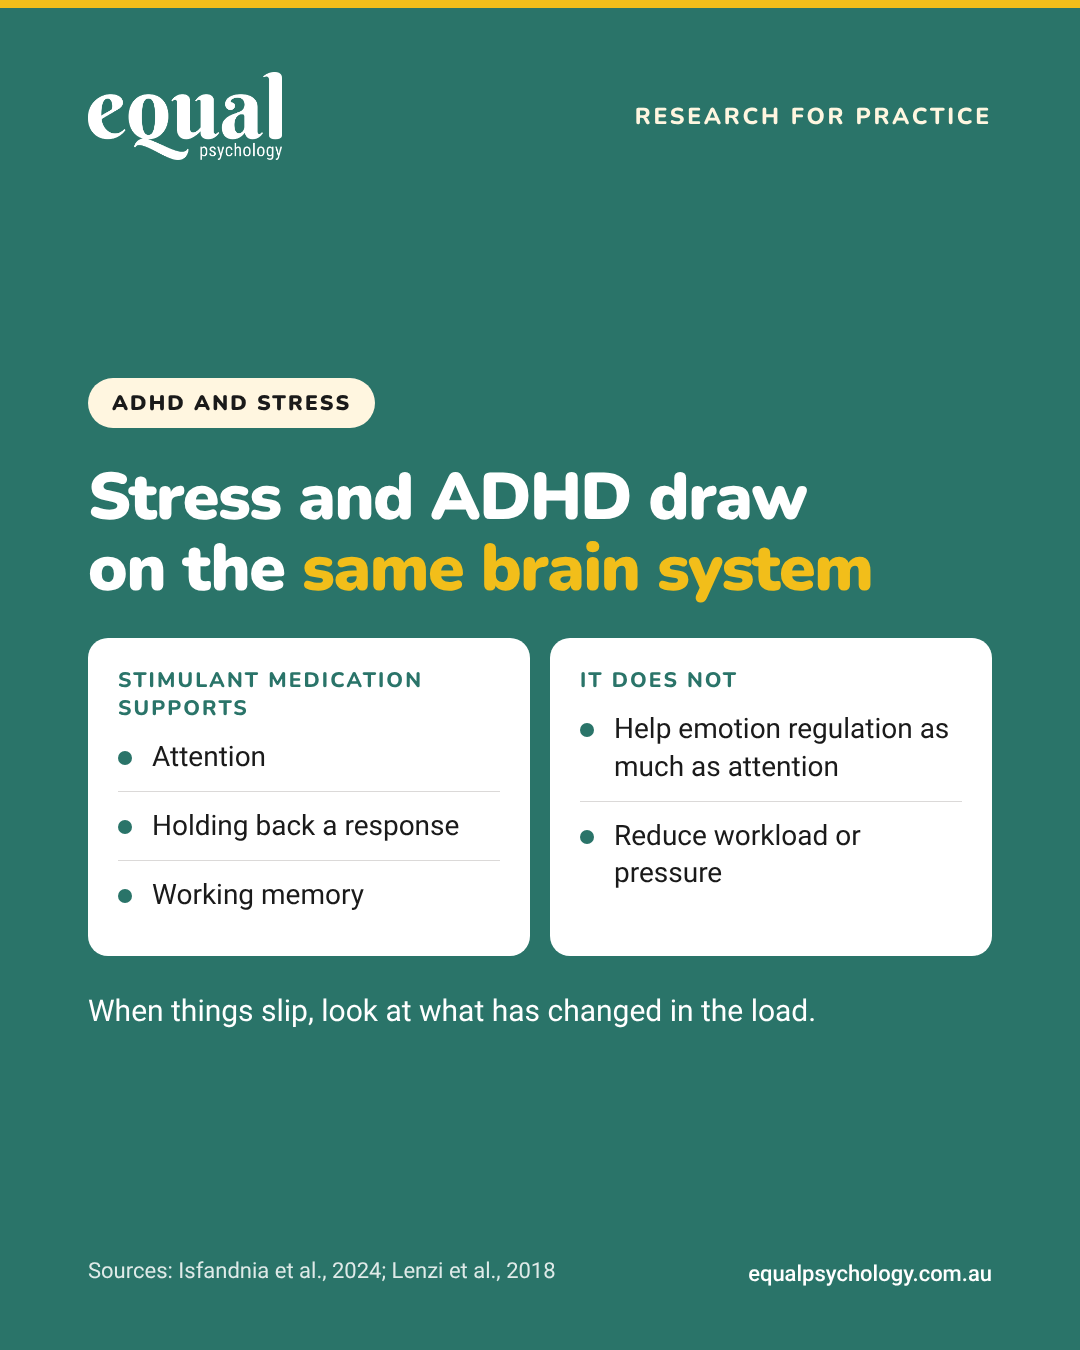
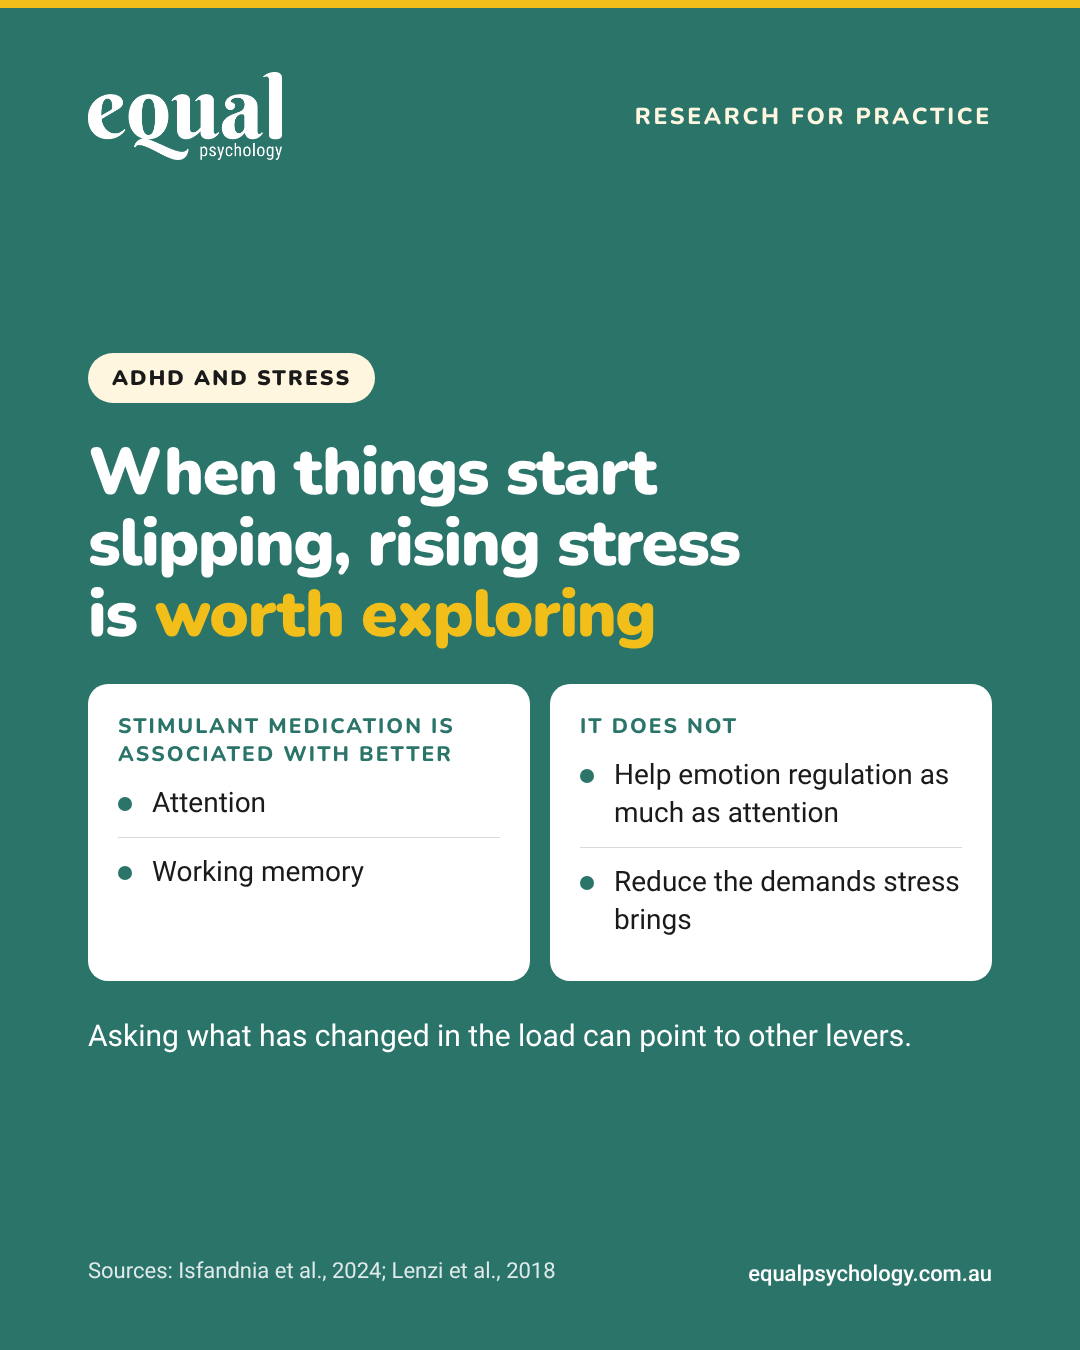
WIP: 2 Nov and 24 Nov LinkedIn graphics match corrected post text (not yet reviewed)
Claude-Session: https://claude.ai/code/session_01PZVGLP5J3BHdSUAGKuZxXq

Changed region(s): [[0.0611, 0.2489, 0.9167, 0.7778]]

diff --git a/tools/linkedin/build.py b/tools/linkedin/build.py
@@ -140,7 +140,7 @@ page('2026-11-02-in-practice-10', 'butter', [
      '<b>Self-criticism is changeable</b>',
      '<b>Three consult questions</b> and when to consider a referral'], 'num'),
   ('line', 'Free issue and patient handout on our referrers page.'),
-], 'Sources: Buric et al., 2026; Löw et al., 2020; Wakelin et al., 2022; Millard et al., 2023')
+], 'Sources: Löw et al., 2020; Millard et al., 2023; Wakelin et al., 2022')
 
 page('2026-11-05-safety-behaviours', 'cream', [
   ('pill', 'Anxiety'),
@@ -222,11 +222,11 @@ page('2026-11-03-demoralization', 'teal', [
 
 page('2026-11-24-adhd-medication-stress', 'teal', [
   ('pill', 'ADHD and stress'),
-  ('h1', 'Stress and ADHD draw on the *same brain system*'),
+  ('h1', 'When things start slipping, rising stress is *worth exploring*'),
   ('cols', [
-     ('Stimulant medication supports', ['Attention', 'Holding back a response', 'Working memory']),
-     ('It does not', ['Help emotion regulation as much as attention', 'Reduce workload or pressure'])]),
-  ('line', 'When things slip, look at what has changed in the load.'),
+     ('Stimulant medication is associated with better', ['Attention', 'Working memory']),
+     ('It does not', ['Help emotion regulation as much as attention', 'Reduce the demands stress brings'])]),
+  ('line', 'Asking what has changed in the load can point to other levers.'),
 ], 'Sources: Isfandnia et al., 2024; Lenzi et al., 2018')
 
 page('2027-02-23-caffeine-dose-timing', 'butter', [
